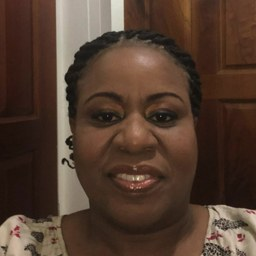
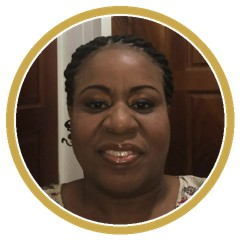
Unify delegation headshots with the cowork ring set + add Prophet Joshua Johnson
Replace the mixed flier/photo crops with the consistent gold-ring headshot set
(480px sources from the prior flyer build), so all avatars match. Adds Prophet
Joshua Johnson; only Shalay Lindsey remains on the monogram fallback.

diff --git a/app/(public)/kenya-debrief/page.tsx b/app/(public)/kenya-debrief/page.tsx
@@ -55,7 +55,7 @@ const DELEGATION: { name: string; role?: string; photo?: string }[] = [
   { name: 'Minister Curlean Chaney', photo: '/images/kenya/delegation/chaney.jpg' },
   { name: 'Iris Wells', photo: '/images/kenya/delegation/iris.jpg' },
   { name: 'Shalay Lindsey' },
-  { name: 'Prophet Joshua Johnson' },
+  { name: 'Prophet Joshua Johnson', photo: '/images/kenya/delegation/joshua.jpg' },
   { name: 'Prophetess Suzette Patterson', photo: '/images/kenya/delegation/suzette.jpg' },
 ]
 
